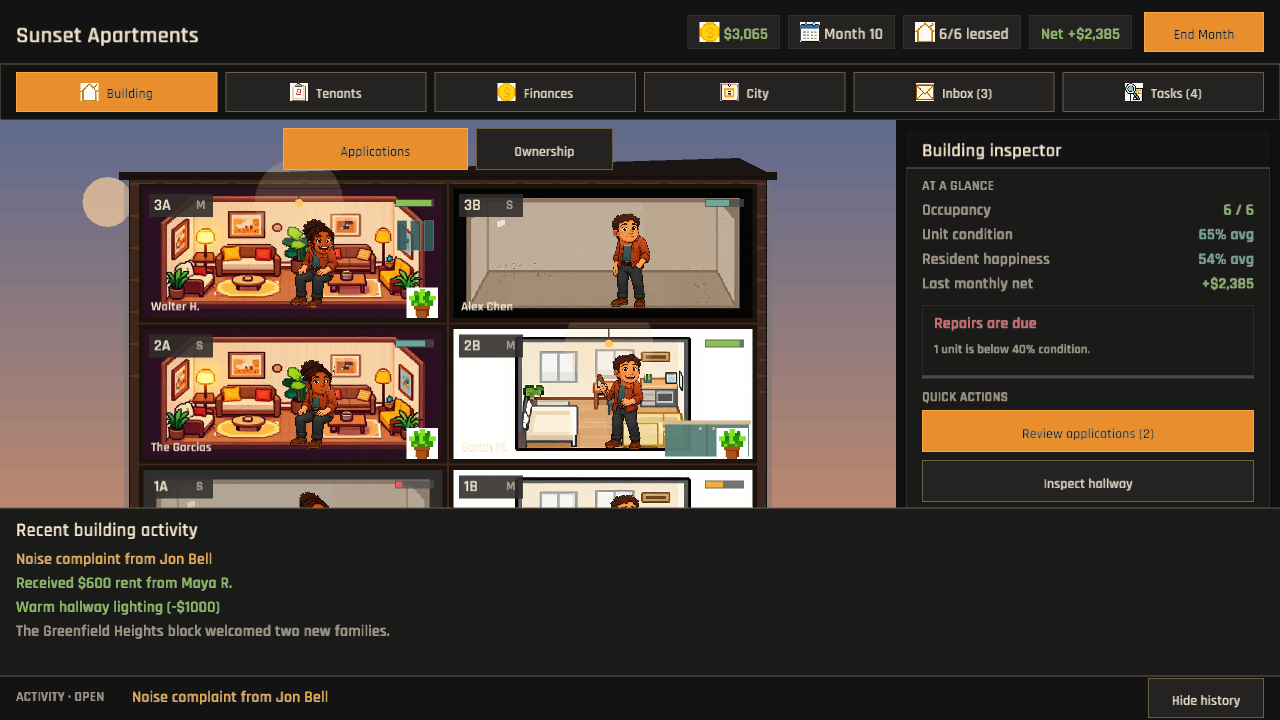
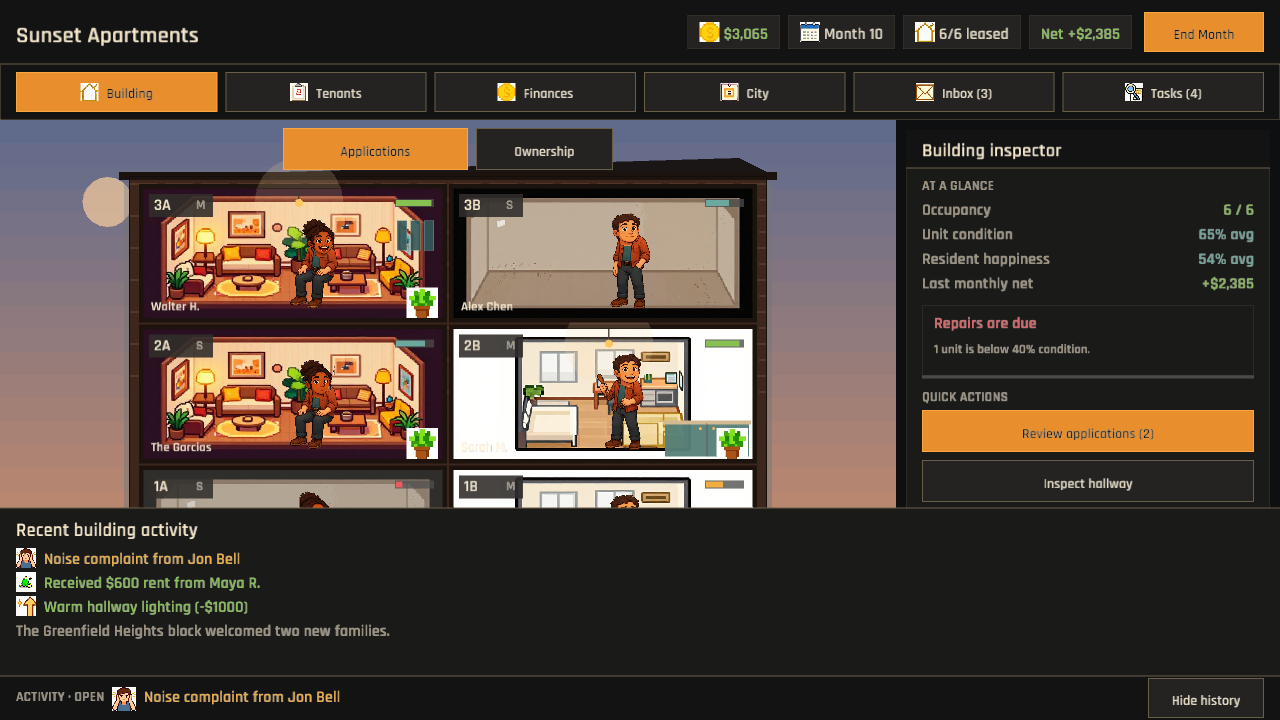
The activity ledger remembers what kind of knock reached the door (illustrated event history)
Map rent, move-in, move-out, complaint, repair, application, inspection, emergency, upgrade, and month-end events to the shipped illustration and icon set. Show those symbols in both the expanded building history and the compact latest-event footer while retaining semantic severity colors and missing-asset fallbacks.

Verified with 131 passing tests (1 ignored), desktop activity-history captures, formatting, diff and Rust line-count checks, and publish.ps1 for Windows, WebGL, and preview deployment.

Changed region(s): [[0.0, 0.7639, 0.2188, 0.8556], [0.0625, 0.9472, 0.2812, 1.0]]

diff --git a/src/ui/notifications.rs b/src/ui/notifications.rs
@@ -3,14 +3,14 @@ use super::theme::{color, scale, space, Tone};
 use super::widgets::button_at;
 use super::UiAction;
 use crate::assets::AssetManager;
-use crate::simulation::{EventLog, EventSeverity};
+use crate::simulation::{EventLog, EventSeverity, GameEvent};
 use macroquad::prelude::*;
 use macroquad_toolkit::ui::{draw_ui_text, truncate_text_to_width};
 
 pub fn draw_notifications(
     event_log: &EventLog,
     _current_tick: u32,
-    _assets: &AssetManager,
+    assets: &AssetManager,
     expanded: bool,
 ) -> Option<UiAction> {
     let y = screen_height() - layout::FOOTER_HEIGHT();
@@ -18,7 +18,7 @@ pub fn draw_notifications(
     let h = layout::FOOTER_HEIGHT();
 
     if expanded {
-        draw_activity_drawer(event_log, y);
+        draw_activity_drawer(event_log, y, assets);
     }
 
     // Background
@@ -47,9 +47,17 @@ pub fn draw_notifications(
             EventSeverity::Negative => colors::NEGATIVE(),
         };
 
-        let display_msg =
-            truncate_text_to_width(&event.message(), (w - 300.0).max(120.0), scale::BODY);
-        draw_ui_text(&display_msg, 132.0, y + 26.0, scale::BODY, color);
+        let text_x = if draw_event_icon(event, Rect::new(112.0, y + 11.0, 24.0, 24.0), assets) {
+            144.0
+        } else {
+            132.0
+        };
+        let display_msg = truncate_text_to_width(
+            &event.message(),
+            (w - text_x - 148.0).max(120.0),
+            scale::BODY,
+        );
+        draw_ui_text(&display_msg, text_x, y + 26.0, scale::BODY, color);
     }
 
     if button_at(
@@ -68,7 +76,7 @@ pub fn draw_notifications(
     }
 }
 
-fn draw_activity_drawer(event_log: &EventLog, footer_y: f32) {
+fn draw_activity_drawer(event_log: &EventLog, footer_y: f32, assets: &AssetManager) {
     let drawer_h = 168.0_f32.min(footer_y - layout::HEADER_HEIGHT() - space::SM);
     let y = footer_y - drawer_h;
     draw_rectangle(0.0, y, screen_width(), drawer_h, color::SURFACE());
@@ -90,11 +98,54 @@ fn draw_activity_drawer(event_log: &EventLog, footer_y: f32) {
             EventSeverity::Warning => color::WARNING(),
             EventSeverity::Negative => color::NEGATIVE(),
         };
-        let display_msg = truncate_text_to_width(&event.message(), max_w, scale::BODY);
-        draw_ui_text(&display_msg, space::LG, event_y, scale::BODY, event_color);
+        let icon_rect = Rect::new(space::LG, event_y - 16.0, 20.0, 20.0);
+        let text_x = if draw_event_icon(event, icon_rect, assets) {
+            icon_rect.right() + space::SM
+        } else {
+            space::LG
+        };
+        let display_msg = truncate_text_to_width(&event.message(), max_w - text_x, scale::BODY);
+        draw_ui_text(&display_msg, text_x, event_y, scale::BODY, event_color);
         event_y += scale::BODY + space::SM;
         if event_y > footer_y - space::SM {
             break;
         }
     }
+}
+
+fn draw_event_icon(event: &GameEvent, rect: Rect, assets: &AssetManager) -> bool {
+    let id = match event {
+        GameEvent::RentPaid { .. } | GameEvent::RentMissed { .. } => "event_rent_collected",
+        GameEvent::TenantMovedIn { .. } => "event_tenant_moved_in",
+        GameEvent::TenantMovedOut { .. } => "event_tenant_moved_out",
+        GameEvent::NoiseComplaint { .. } => "event_noise_complaint",
+        GameEvent::PipeBurst { .. }
+        | GameEvent::BoilerFailure { .. }
+        | GameEvent::StructuralIssue { .. } => "event_pipe_burst",
+        GameEvent::Inspection { .. } => "event_inspection",
+        GameEvent::Heatwave { .. } => "event_heatwave",
+        GameEvent::NewApplication { .. } => "icon_application",
+        GameEvent::UpgradeCompleted { .. } => "icon_upgrade",
+        GameEvent::ConditionComplaint { .. }
+        | GameEvent::PoorCondition { .. }
+        | GameEvent::CriticalCondition { .. }
+        | GameEvent::HallwayDeteriorating { .. }
+        | GameEvent::TenantDamage { .. } => "icon_repair",
+        GameEvent::MonthEnd { .. } => "icon_calendar",
+        _ => return false,
+    };
+    let Some(texture) = assets.get_texture(id) else {
+        return false;
+    };
+    draw_texture_ex(
+        texture,
+        rect.x,
+        rect.y,
+        WHITE,
+        DrawTextureParams {
+            dest_size: Some(vec2(rect.w, rect.h)),
+            ..Default::default()
+        },
+    );
+    true
 }
